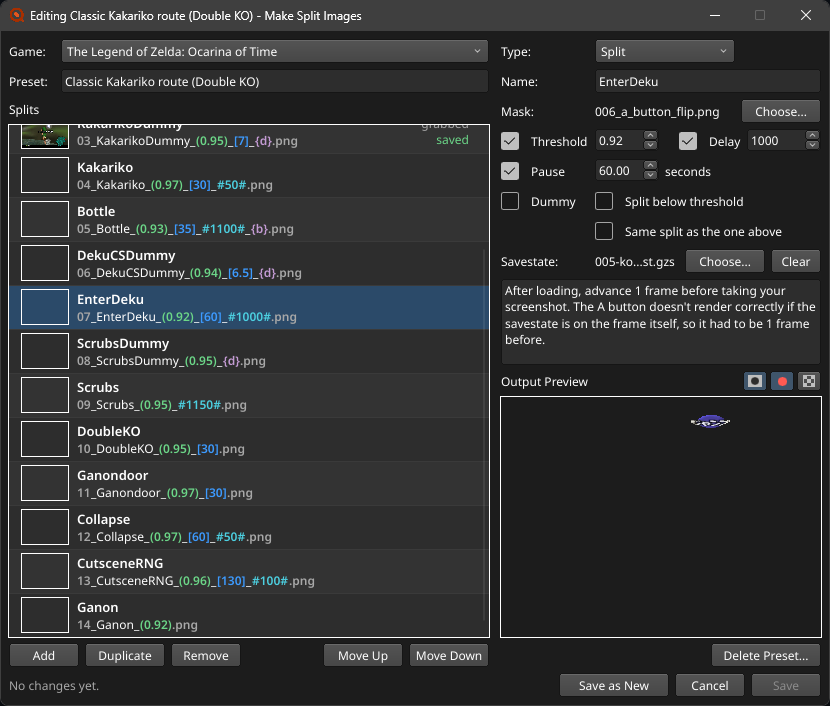
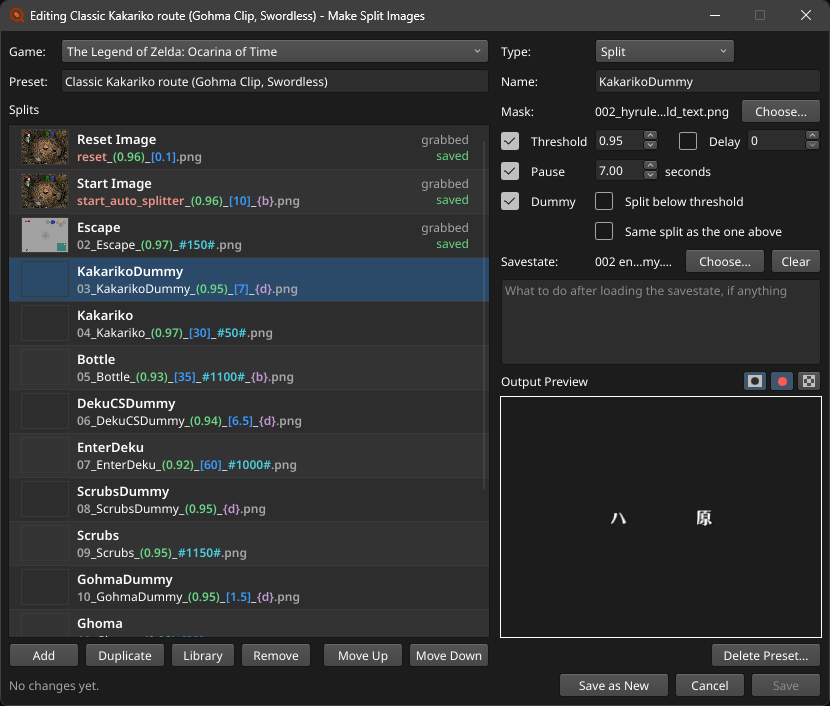
Add a Split Library screenshot to the manual

diff --git a/MANUAL.md b/MANUAL.md
@@ -112,10 +112,13 @@ Edit, next to the preset, edits it, and New starts a new preset for the same gam
   - Insert Above and Insert Below put it around the selected split. While the pointer is over them, a line in the split list shows where. Enter in the list does the same as Insert Below. Insert Below selects the new split and Insert Above keeps the selected one, so either way the next one goes after the last one inserted.
   - You can also drag a split by the dots at the start of its row into the split list. The line follows the pointer, and the list scrolls when you drag near or past its top or bottom. Under Wayland, where windows don't know their place on the screen, only the buttons and keys work.
   - Splits compared together are never split up: a split goes before or after them.
-  - Some ready-made splits take several images in a row, like a dummy for a boss's intro text and then its flash. They're inserted together, a split for each image.
+  - Some ready-made splits take several images in a row, like a dummy for a boss's intro text and then its death. They're inserted together, a split for each image.
   - If the preset already has a split with the same name, its row shows where: that split's number, colored like in the split list's file names, or `reset` or `start` for a reset or start image.
   - A grayed-out name can't be inserted, like a fifth reset image. When you pick it, a red line above the buttons says why.
   - The window stays open. Saving the preset copies the masks and savestates of inserted splits into it.
+
+  ![Split Library: the ready-made splits listed on the left, with where the preset has them already, and EnterDeku picked on the right, its dummy and its split each with a screenshot, settings and file name, above Insert Above and Insert Below](docs/split-library.png)
+
 - Grabs and screenshots stay with their splits while you change them. Grab itself is hidden while editing, since a split's file name and mask aren't settled until the preset is saved.
 
 Each split has:
